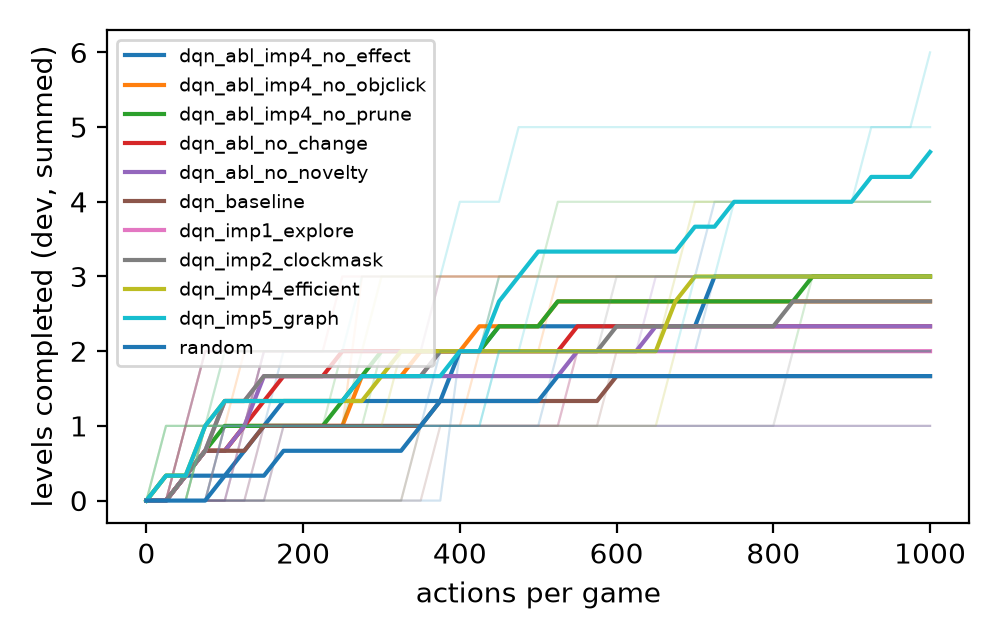
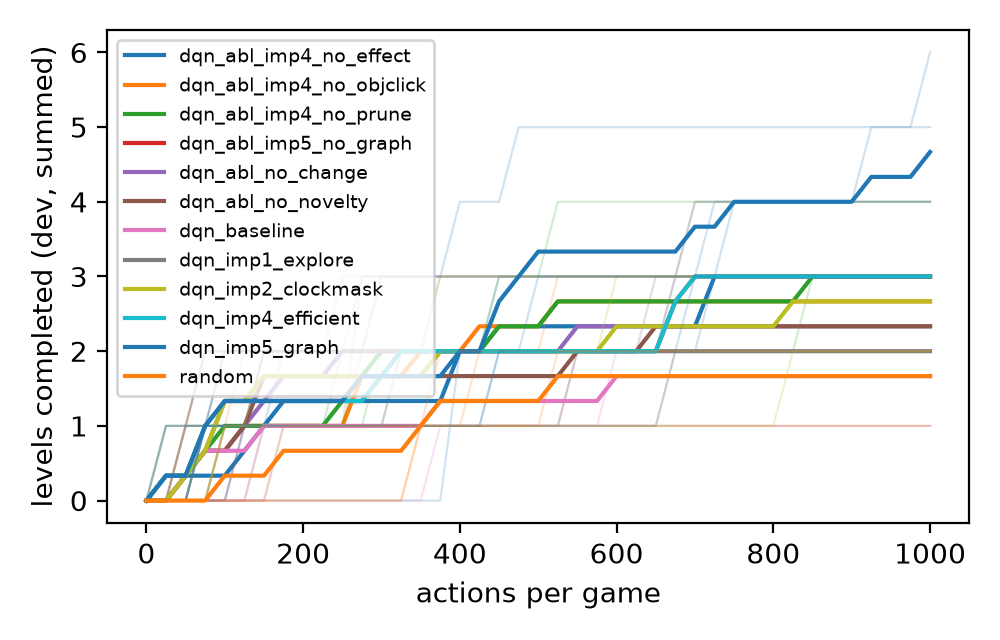
Fix: timed clock mask active without graph; log invalid ablation run

diff --git a/outputs/figures/summary.tex b/outputs/figures/summary.tex
@@ -5,6 +5,7 @@ run_name & split & seeds & score_mean & score_std & score_ci95 & levels_mean & l
 dqn_abl_imp4_no_effect & dev & 3 & 0.05 & 0.08 & 0.09 & 3.00 & 1.00 & 0.00 & 15000.00 & 1500.84 & 0.81 & 9417.33 & 0.64 \\
 dqn_abl_imp4_no_objclick & dev & 3 & 0.06 & 0.05 & 0.06 & 2.67 & 0.58 & 0.00 & 15000.00 & 978.73 & 0.80 & 8425.33 & 0.59 \\
 dqn_abl_imp4_no_prune & dev & 3 & 0.14 & 0.16 & 0.18 & 3.00 & 1.00 & 0.00 & 15000.00 & 1638.46 & 0.79 & 9393.00 & 0.52 \\
+dqn_abl_imp5_no_graph & dev & 3 & 0.14 & 0.16 & 0.18 & 3.00 & 1.00 & 0.00 & 15000.00 & 1488.68 & 0.82 & 9962.33 & 0.65 \\
 dqn_abl_no_change & dev & 3 & 0.11 & 0.18 & 0.20 & 2.33 & 0.58 & 0.00 & 15000.00 & 1014.00 & 0.72 & 6802.67 & NaN \\
 dqn_abl_no_novelty & dev & 3 & 0.11 & 0.18 & 0.20 & 2.33 & 0.58 & 0.00 & 15000.00 & 982.60 & 0.75 & 6611.67 & NaN \\
 dqn_abl_scratch_loweps & dev_b & 3 & 0.01 & 0.02 & 0.02 & 0.33 & 0.58 & 0.00 & 5000.00 & 330.48 & 0.56 & 763.33 & NaN \\
@@ -17,6 +18,7 @@ dqn_imp5_graph & dev & 3 & 0.14 & 0.15 & 0.17 & 4.67 & 1.53 & 0.00 & 15000.00 & 
 ppo_abl_imp4_no_effect & dev & 3 & 0.06 & 0.05 & 0.06 & 2.00 & 0.00 & 0.00 & 15000.00 & 488.27 & 0.73 & 8756.67 & 0.50 \\
 ppo_abl_imp4_no_objclick & dev & 3 & 0.20 & 0.17 & 0.19 & 3.33 & 0.58 & 0.00 & 15000.00 & 917.40 & 0.79 & 8214.00 & 0.57 \\
 ppo_abl_imp4_no_prune & dev & 3 & 0.02 & 0.01 & 0.01 & 3.00 & 1.00 & 0.00 & 15000.00 & 897.06 & 0.78 & 9318.00 & 0.56 \\
+ppo_abl_imp5_no_graph & dev & 3 & 0.03 & 0.03 & 0.03 & 4.00 & 1.73 & 0.00 & 15000.00 & 597.53 & 0.80 & 9818.67 & 0.63 \\
 ppo_abl_no_change & dev & 3 & 0.00 & 0.00 & 0.00 & 2.00 & 1.00 & 0.00 & 15000.00 & 422.14 & 0.70 & 6426.67 & NaN \\
 ppo_abl_no_novelty & dev & 3 & 0.00 & 0.00 & 0.00 & 2.00 & 1.00 & 0.00 & 15000.00 & 428.29 & 0.72 & 6793.33 & NaN \\
 ppo_baseline & dev & 3 & 0.00 & 0.00 & 0.00 & 1.33 & 0.58 & 0.00 & 15000.00 & 494.39 & 0.68 & 5911.33 & NaN \\

diff --git a/src/arcrl/agents/controller.py b/src/arcrl/agents/controller.py
@@ -82,6 +82,7 @@ class OnlineController:
             self._close(obs, done=True)
             self.stack.clear()
             self.prev = None
+            self.life_t = 0
             return GameAction.RESET, None
         s = self.stack.push(obs.grid)
         mask = self.actions.mask(obs.available, obs.grid)
@@ -114,7 +115,8 @@ class OnlineController:
         if s2 is None:
             s2 = self.stack.push(obs.grid) if self.stack.buf else np.repeat(obs.grid[None], self.cfg.frame_stack, 0)
             m2 = np.ones(self.actions.n, bool)
-        r, _ = self.shaper(pgrid, obs.grid, max(0, obs.levels - plev), obs.state == "GAME_OVER")
+        self.life_t += 1
+        r, _ = self.shaper(pgrid, obs.grid, max(0, obs.levels - plev), obs.state == "GAME_OVER", t=self.life_t)
         changed = self.shaper.last_changed
         self.shaped_return += r
         self.steps += 1

diff --git a/tests/test_graph.py b/tests/test_graph.py
@@ -104,3 +104,11 @@ def test_graph_mode_learners_run_and_update():
         assert decisions > 0 and decisions + ctrl.planned_steps + r["resets"] == r["actions"]
         stored = len(ctrl.learner.buf) if algo == "dqn" else len(ctrl.learner.S) + ctrl.learner.t // 16 * 16
         assert stored == decisions
+
+
+def test_timed_clock_mask_is_active_without_graph():
+    cfg = Config(algo="random", clock_mask=True, clock_mask_timed=True, prune_noeffect=True)
+    ctrl = OnlineController(cfg, seed=0)
+    play_game(LockEnv(seed=7), ctrl, "lock", budget=60)
+    when = ctrl.shaper.clock.when
+    assert (when >= 1).any() and when.max() <= 12

diff --git a/outputs/figures/summary.md b/outputs/figures/summary.md
@@ -3,6 +3,7 @@
 | dqn_abl_imp4_no_effect   | dev     |       3 |        0.054 |       0.081 |        0.092 |         3     |        1     |           0 |          15000 |           1500.84  |              0.814 |             9417.33  |              0.642 |
 | dqn_abl_imp4_no_objclick | dev     |       3 |        0.056 |       0.052 |        0.059 |         2.667 |        0.577 |           0 |          15000 |            978.727 |              0.803 |             8425.33  |              0.592 |
 | dqn_abl_imp4_no_prune    | dev     |       3 |        0.139 |       0.156 |        0.176 |         3     |        1     |           0 |          15000 |           1638.46  |              0.79  |             9393     |              0.518 |
+| dqn_abl_imp5_no_graph    | dev     |       3 |        0.138 |       0.156 |        0.177 |         3     |        1     |           0 |          15000 |           1488.68  |              0.823 |             9962.33  |              0.65  |
 | dqn_abl_no_change        | dev     |       3 |        0.11  |       0.179 |        0.203 |         2.333 |        0.577 |           0 |          15000 |           1014     |              0.716 |             6802.67  |            nan     |
 | dqn_abl_no_novelty       | dev     |       3 |        0.11  |       0.178 |        0.202 |         2.333 |        0.577 |           0 |          15000 |            982.6   |              0.746 |             6611.67  |            nan     |
 | dqn_abl_scratch_loweps   | dev_b   |       3 |        0.009 |       0.016 |        0.018 |         0.333 |        0.577 |           0 |           5000 |            330.483 |              0.561 |              763.333 |            nan     |
@@ -15,6 +16,7 @@
 | ppo_abl_imp4_no_effect   | dev     |       3 |        0.061 |       0.052 |        0.059 |         2     |        0     |           0 |          15000 |            488.27  |              0.734 |             8756.67  |              0.503 |
 | ppo_abl_imp4_no_objclick | dev     |       3 |        0.2   |       0.167 |        0.189 |         3.333 |        0.577 |           0 |          15000 |            917.4   |              0.79  |             8214     |              0.572 |
 | ppo_abl_imp4_no_prune    | dev     |       3 |        0.016 |       0.012 |        0.014 |         3     |        1     |           0 |          15000 |            897.063 |              0.778 |             9318     |              0.562 |
+| ppo_abl_imp5_no_graph    | dev     |       3 |        0.027 |       0.029 |        0.032 |         4     |        1.732 |           0 |          15000 |            597.533 |              0.8   |             9818.67  |              0.627 |
 | ppo_abl_no_change        | dev     |       3 |        0.003 |       0.002 |        0.002 |         2     |        1     |           0 |          15000 |            422.137 |              0.697 |             6426.67  |            nan     |
 | ppo_abl_no_novelty       | dev     |       3 |        0.003 |       0.002 |        0.002 |         2     |        1     |           0 |          15000 |            428.287 |              0.716 |             6793.33  |            nan     |
 | ppo_baseline             | dev     |       3 |        0.003 |       0.002 |        0.002 |         1.333 |        0.577 |           0 |          15000 |            494.387 |              0.675 |             5911.33  |            nan     |

diff --git a/docs/EXPERIMENT_LOG.md b/docs/EXPERIMENT_LOG.md
@@ -401,6 +401,18 @@ comparing against published ARC-AGI-3 agents, which surfaced a limitation the lo
   so it goes into the report as a full improvement. **Submission: PPO imp5** (most levels, 5.00; most second levels;
   3× faster than DQN). This is chosen on levels, not dev score, because the dev score is dominated by r11l luck.
 
+### Improvement 5 — ablation without the graph (25 Sept)
+- **First run invalid (bug found from the result).** `*_abl_imp5_no_graph` (imp4 + timed clock mask, no graph) reproduced
+  imp4 exactly: same levels per seed (DQN 4/2/3, PPO 6/3/3), same completion times, same distinct frames in every game.
+  Cause: the timed mask needs the action index within a life, which only the graph path passed to the shaper. Without it
+  the mask fell back to the untimed rule, so the ablation was imp4 under another name.
+- **Fix:** the non-graph path now also tracks the action index within a life and passes it to the shaper. Configs without
+  `clock_mask_timed` are unaffected (bit-for-bit reproduction re-checked for baseline, imp2 and imp4). The graph path is
+  unchanged, so imp5 results stand. Test added (`test_timed_clock_mask_is_active_without_graph`).
+- **What the invalid run still shows:** imp4 is reproducible run to run on the same machine and seeds (all numbers identical).
+- **Rerun:** pending (`--overwrite`).
+- **Result:**
+
 ### Optional, not in the main chain
 Frame-stack memory (`*_opt_memory.yaml`) and object-aware clicks (`*_opt_objclick.yaml`) remain available as extra
 experiments if time allows; current evidence does not make either the bottleneck.
